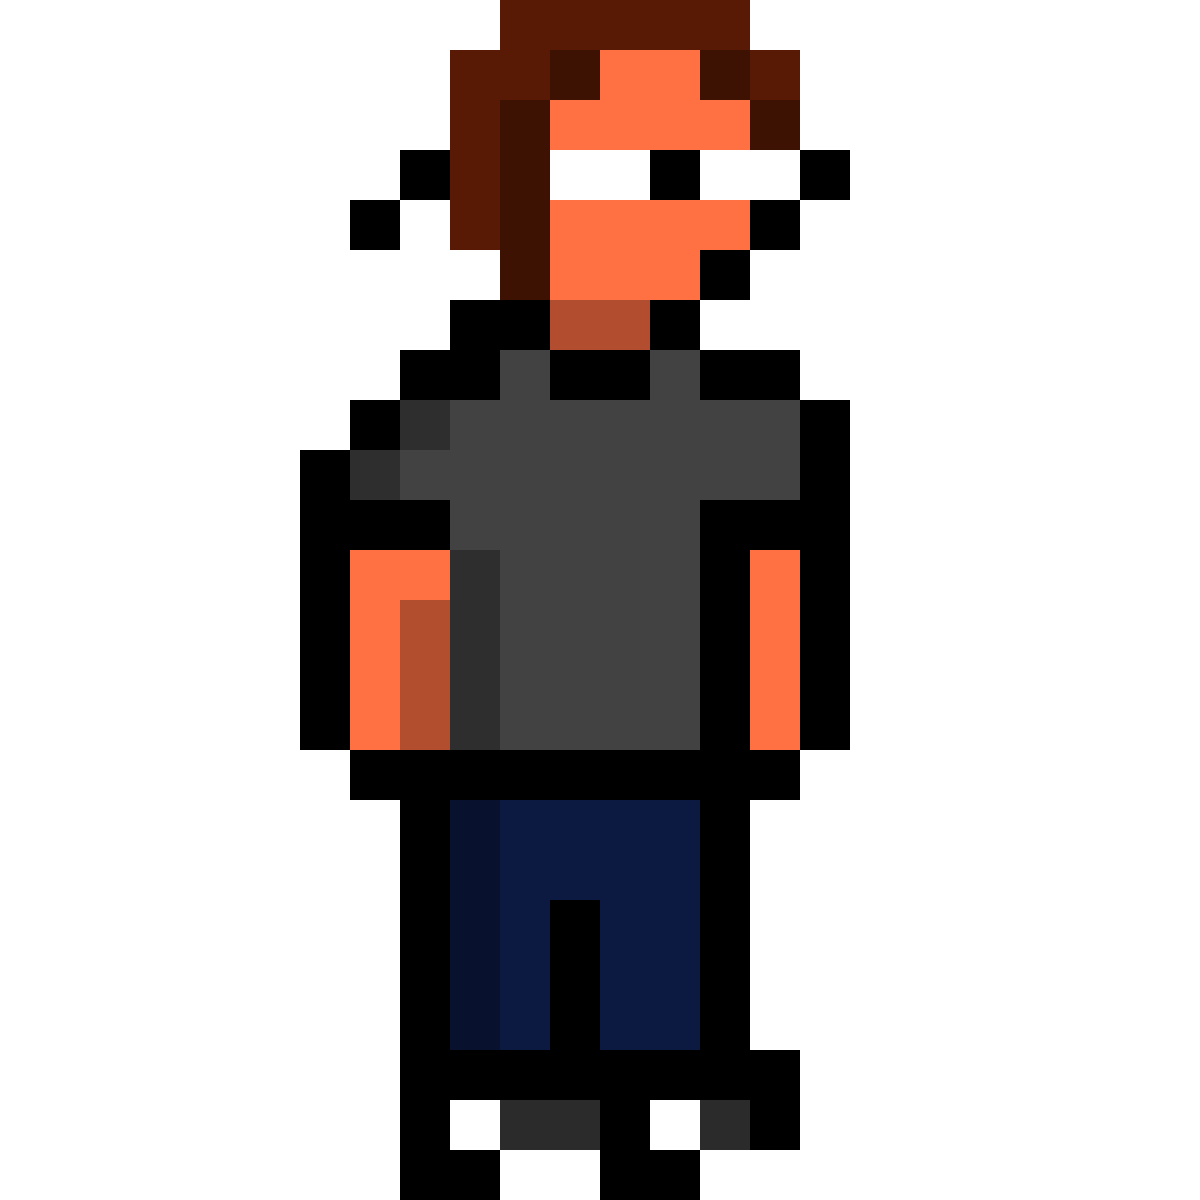
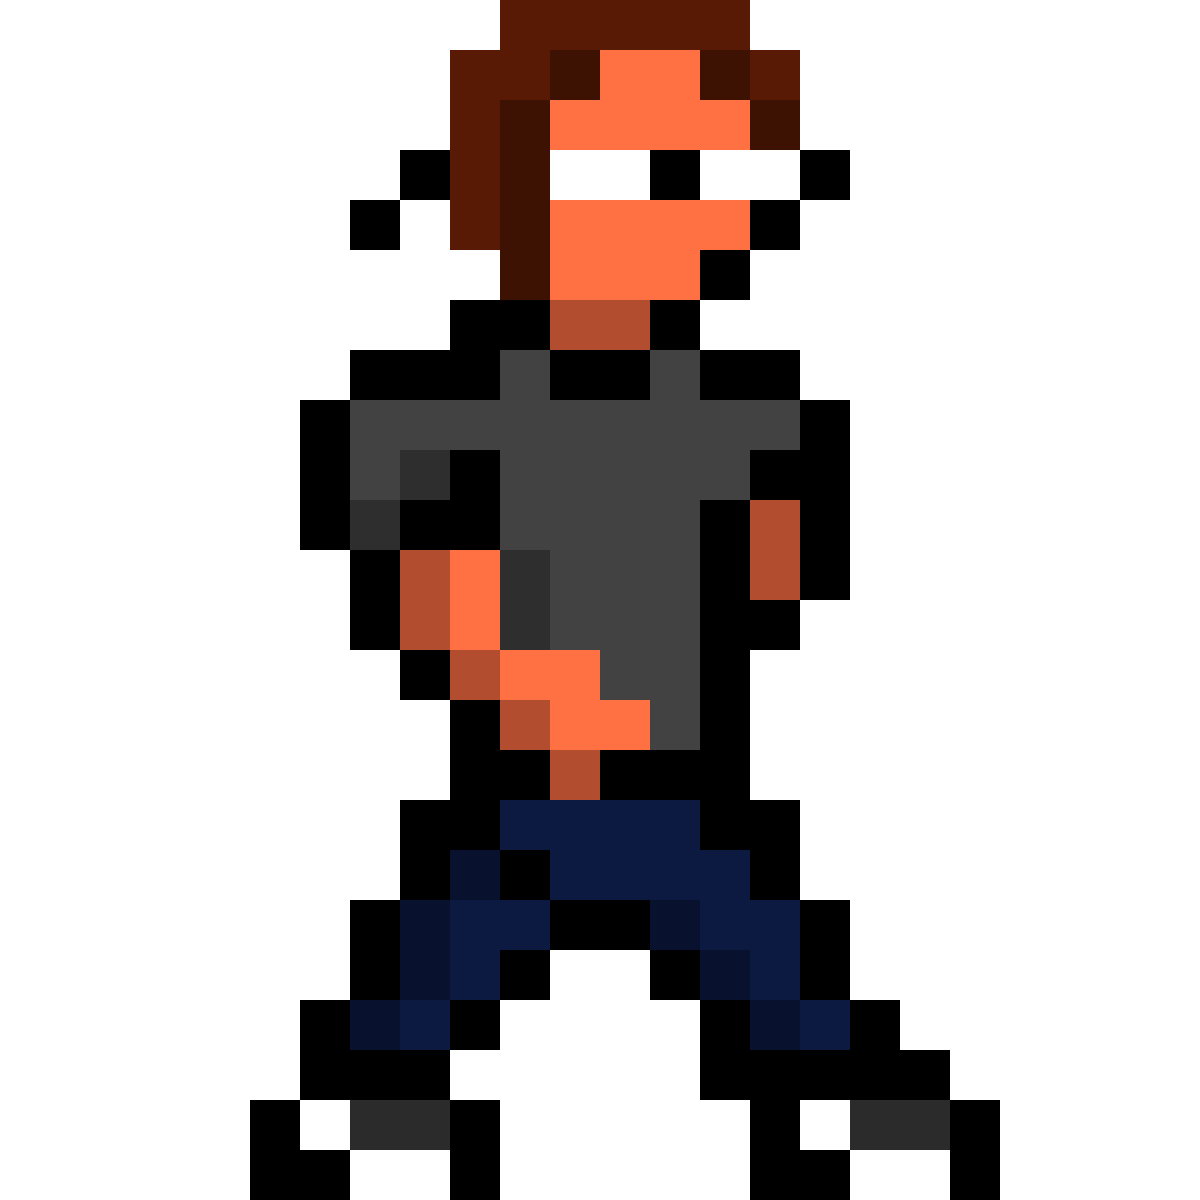
adicionando o pulo e diferentes dureções para o personagem

Changed region(s): [[0.185, 0.2775, 0.8325, 1.0]]

diff --git a/personagens_class.py b/personagens_class.py
@@ -3,13 +3,27 @@ import pygame
 class Personagem(pygame.sprite.Sprite):
     def __init__(self, *groups):
         super().__init__(*groups)
-        self.lado='direita'
-        self.image=pygame.image.load('img/pulga_direita.png')
+        self.lado='parado'
+        self.image=pygame.image.load('img/pulga_parado.png')
         self.image=pygame.transform.scale(self.image,[80,80])
-        self.rect=pygame.Rect(0,395,100,100)
+        self.rect=pygame.Rect(0,600,100,100)
+        self.pulo=False
+        self.posy_inicial=600
+
+    def pular(self):
+        self.pulo=True
     
     def update(self, *args):
         #Lógica
+        if self.pulo==True:
+            if self.rect.y<=400:
+                self.pulo=False
+            self.rect.y-=5
+        else:
+            if self.rect.y<self.posy_inicial:
+                self.rect.y+=5
+            else:
+                self.rect.y=self.posy_inicial
         keys=pygame.key.get_pressed()
         if keys[pygame.K_a] or keys[pygame.K_LEFT]:
             self.lado='esquerda'
@@ -21,16 +35,17 @@ class Personagem(pygame.sprite.Sprite):
             self.image=pygame.image.load('img/pulga_direita.png')
             self.image=pygame.transform.scale(self.image,[80,80])
             self.rect.x += 5
-        elif keys[pygame.K_w] or keys[pygame.K_UP]:
-            self.rect.y -= 5
-        elif keys[pygame.K_s] or keys[pygame.K_DOWN]:
-            self.rect.y += 5
-
+        else:
+            self.lado='parado'
+            self.image=pygame.image.load('img/pulga_parado.png')
+            self.image=pygame.transform.scale(self.image,[80,80])
+            
         if self.rect.top<0:
             self.rect.top=0
         elif self.rect.bottom>620:
             self.rect.bottom=620
-        elif self.rect.left<-20:
-            self.rect.left=-20
+        elif self.rect.left<50:
+            self.rect.left=50
         elif self.rect.right>1060:
             self.rect.right=1060
+            

diff --git a/jogo_pygame.py b/jogo_pygame.py
@@ -23,10 +23,14 @@ timer=0
 clock=pygame.time.Clock()
 while game:
     clock.tick(60)
+
+    #Eventos:
     for event in pygame.event.get():
         if event.type==pygame.QUIT:
             game=False
-
+        if event.type==pygame.KEYDOWN:
+            if event.key==pygame.K_SPACE:
+                jogador.pular()
     #Update Lógica:
     grupo_de_objeto.update()
     timer+=1
@@ -34,7 +38,6 @@ while game:
         timer=0
         if random.random()<0.3:
             novo_quizz=Quizz(grupo_de_objeto)
-
     #Draw:
     window.fill((255,255 ,255))
     grupo_de_objeto.draw(window)
